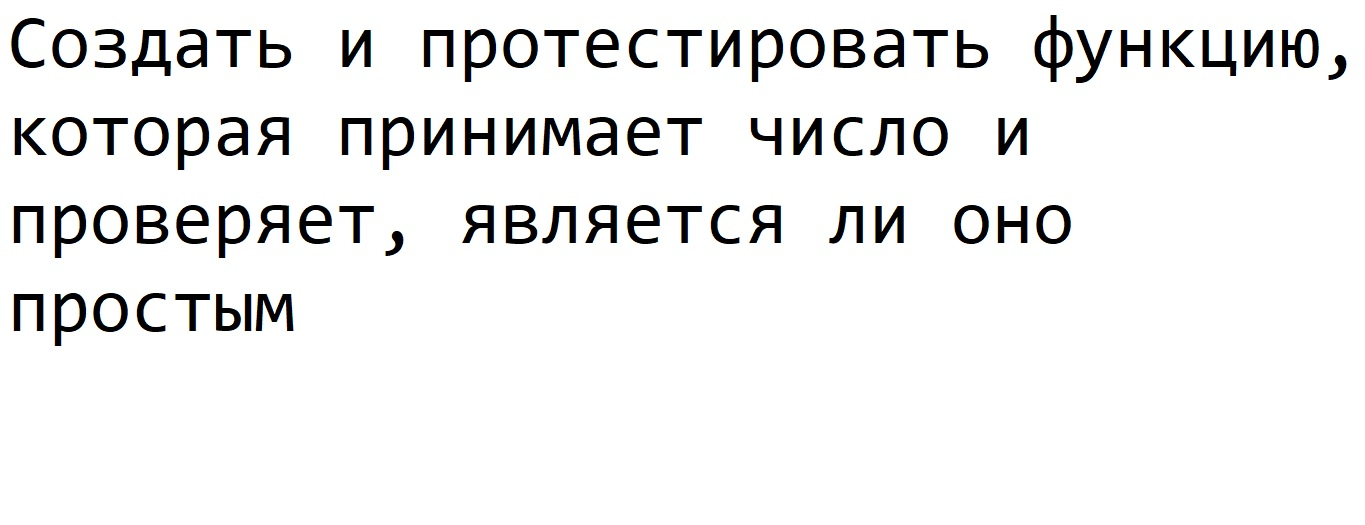
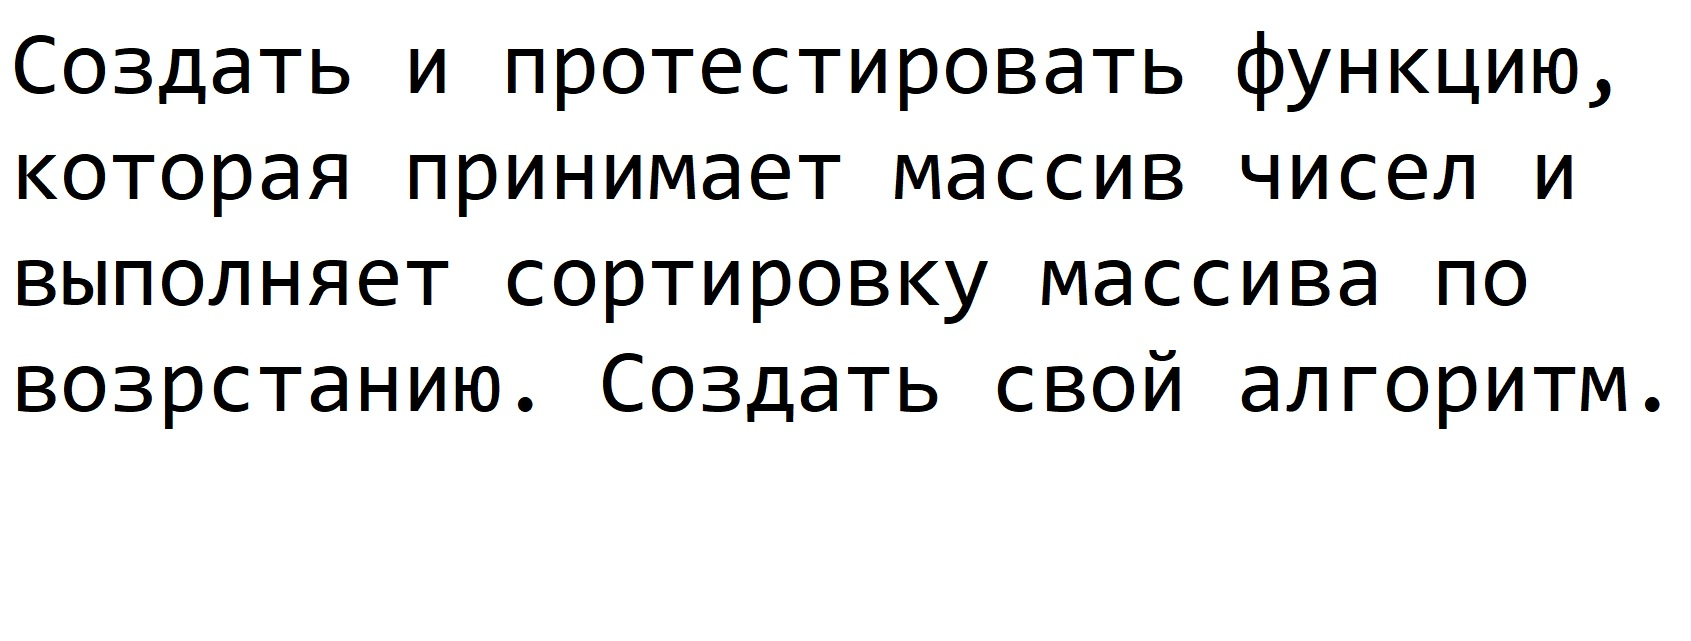
add 24_10_2024

diff --git a/hw_24_10_2024.py b/hw_24_10_2024.py
@@ -1,0 +1,26 @@
+# Создать и протестировать функцию, которая принимает массив чисел и выполняет его сортировку по возрастанию
+
+number_list = [25, -1000, 0, 0, 152, 255, -96]  # исходный список
+
+
+def bubble_sort(num_list):  # создадим усовершенствованную функцию сортировки пузырьком (вариант 1)
+    num_list_copy = num_list.copy()
+    flag = True
+    while flag:
+        flag = False
+        for i in range(len(num_list_copy) - 1):
+            if num_list_copy[i] > num_list_copy[i + 1]:
+                flag = True
+                num_list_copy[i], num_list_copy[i + 1] = num_list_copy[i + 1], num_list_copy[i]
+    return num_list_copy
+
+
+print(bubble_sort(number_list))
+
+
+def inbuilt_sort(num_list):  # создадим ф-ю, повторяющую и проверяющую предыдущую ф-ю (вариант 2)
+    sorted_list = sorted(num_list)
+    return sorted_list
+
+
+print(inbuilt_sort(number_list))

diff --git a/hw_24_10_2024_test.py b/hw_24_10_2024_test.py
@@ -1,0 +1,30 @@
+# Простой тест для двух функций из файла hw_24_10_2024
+
+import unittest
+import hw_24_10_2024
+
+
+class TestSorting(unittest.TestCase):
+    def test_sort_empty(self):
+        """Test empty list"""
+        result = hw_24_10_2024.bubble_sort([])
+        self.assertEqual(result, [])
+
+    def test_sort_empty_2(self):
+        """Test empty list"""
+        result = hw_24_10_2024.inbuilt_sort([])
+        self.assertEqual(result, [])
+
+    def test_sort_true(self):
+        """Test list"""
+        result = hw_24_10_2024.bubble_sort([0, -2, 36])
+        self.assertEqual(result, [-2, 0, 36])
+
+    def test_sort_true_2(self):
+        """Test list"""
+        result = hw_24_10_2024.inbuilt_sort([0, -2, 36])
+        self.assertEqual(result, [-2, 0, 36])
+
+
+if __name__ == '__main__':
+    unittest.main()
